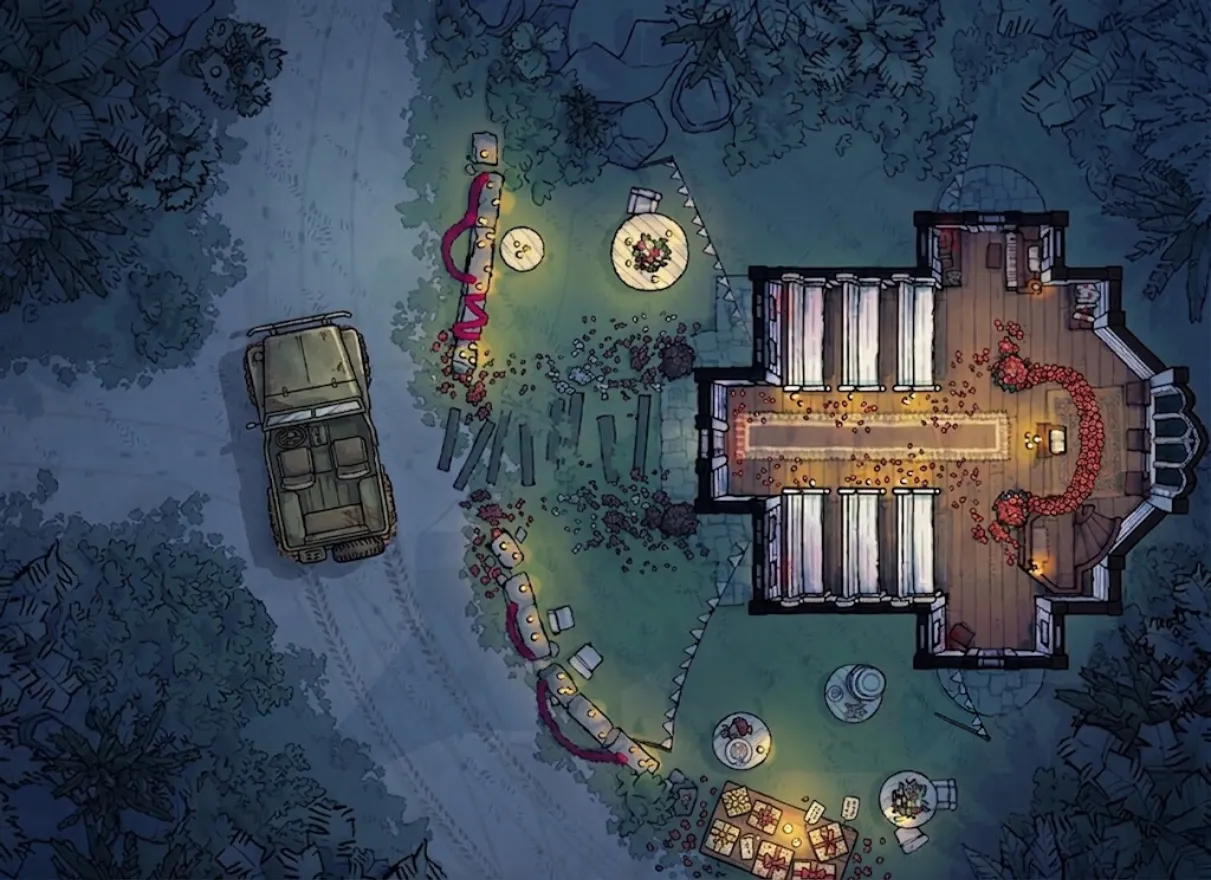
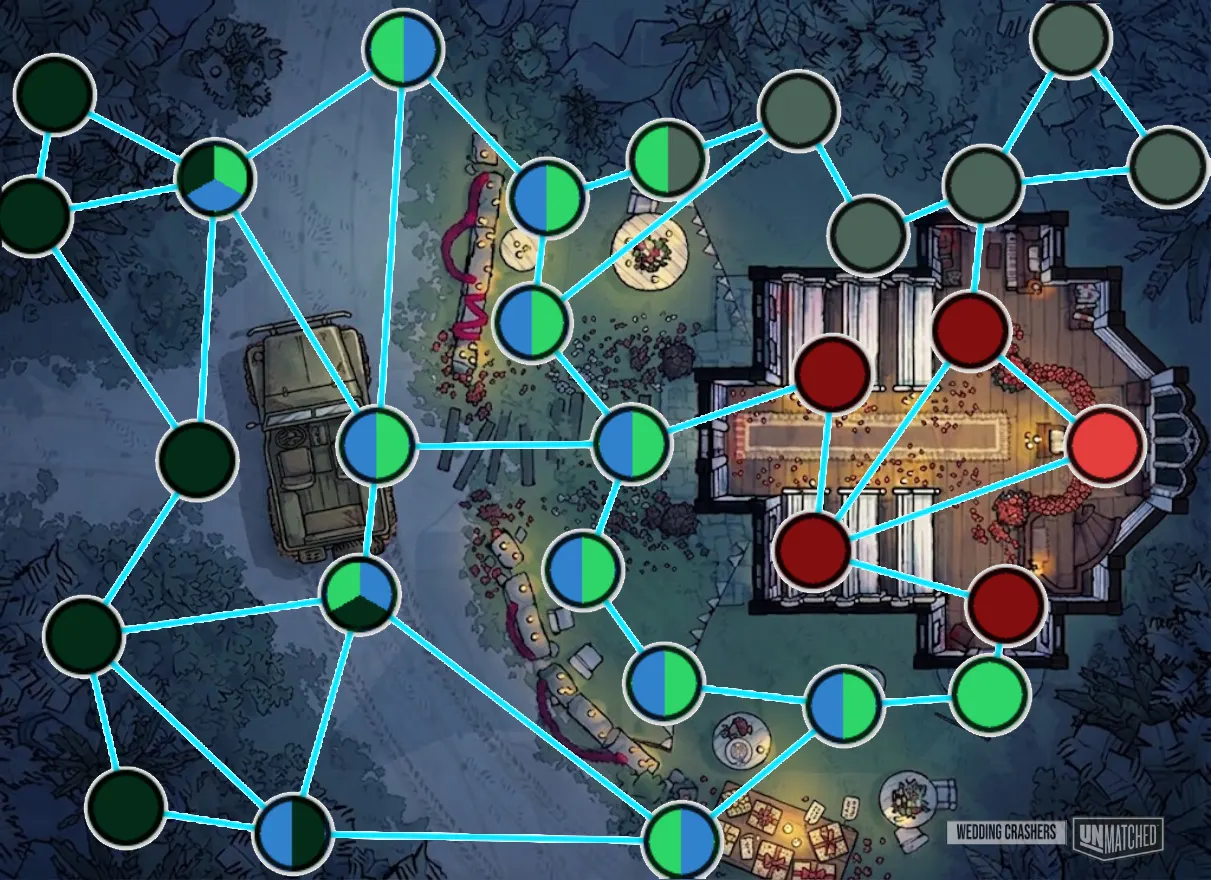
unbrewed-p2p-729: ship the author's finalized Wedding Crashers board art (#730)
#728 promoted Wedding Crashers to `MAP_CATALOG` off the repo's pre-finalized
fixture, so the shipped board was the BARE art. The map editor's spaces and
connections are an invisible layer in-game, so the author (Calton White /
`.andregea`) photoshopped them into the image — and posted that finalized
export on 2026-08-26, after #728 had already merged against the older one.
Players opening the board saw a night-time wedding scene with no spaces, no
zone colours and no connections.

- `public/maps/community-wedding-crashers.webp`: re-converted from the
  author's finalized `i.ibb.co/7tgb5HGt/Wedding-Crashers-1-1.png` with the
  snapshot pipeline's own settings (`sharp().rotate().resize({ width: 1280,
  withoutEnlargement: true }).webp({ quality: 78 })`) → 1211x880, 145 KB. The
  source is already 1211 wide, so `withoutEnlargement` passes it through at
  native size exactly as in #728; the file grew (106 → 145 KB) because the
  baked-in circles and connection lines are hard edges webp cannot cheat on.
- both fixtures move together, by the same delta: six space coordinates
  (s2, s3, s4, s26, s28, s29) nudged onto the circles the author baked into
  the art, and `meta.imageUrl` re-pointed at the finalized image. `items` and
  `zones` are byte-identical between the finalized export and what we shipped,
  so nothing engine-facing changes.
  - `lib/pro/fixtures/wedding-crashers.map.json` (the catalog board) keeps its
[…]

diff --git a/components/MapEditor/schemeItems.test.ts b/components/MapEditor/schemeItems.test.ts
@@ -3,8 +3,12 @@
  * born-valid items, the blocking export guard, and the acceptance fixture — the
  * reporter's "Wedding Crashers" map (`test/fixtures/weddingCrashers.map.json`),
  * whose two scheme items shipped with `ops: []` because the old panel had no way
- * to author one. The map is unmodified as attached to issue #693, so these tests
- * assert the real bug and the real repair rather than a reconstruction.
+ * to author one. The items are as attached to issue #693, so these tests assert
+ * the real bug and the real repair rather than a reconstruction. Only the board
+ * art has moved on: #729 took the author's finalized export — the same map with
+ * its spaces/connections photoshopped into the image and six coordinates nudged
+ * onto the baked-in circles — so `meta.imageUrl` and those six x/y pairs match
+ * the finalized art. The item bug is untouched.
  *
  * The repair's export is the board the catalog now ships
  * (`lib/pro/fixtures/wedding-crashers.map.json`, #727) — one committed copy, and
